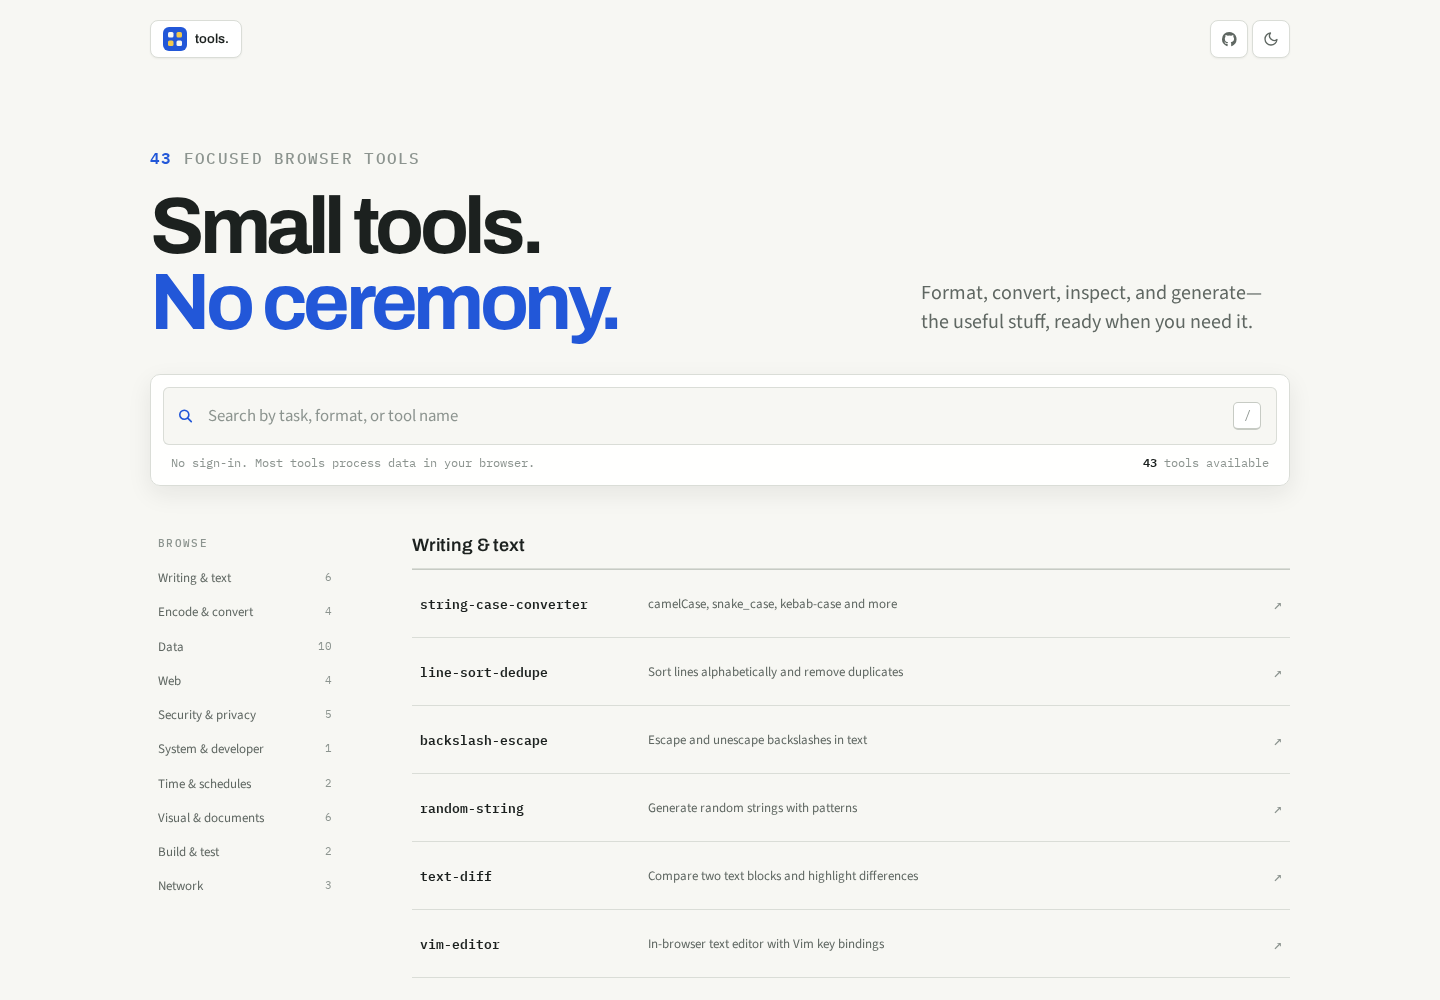
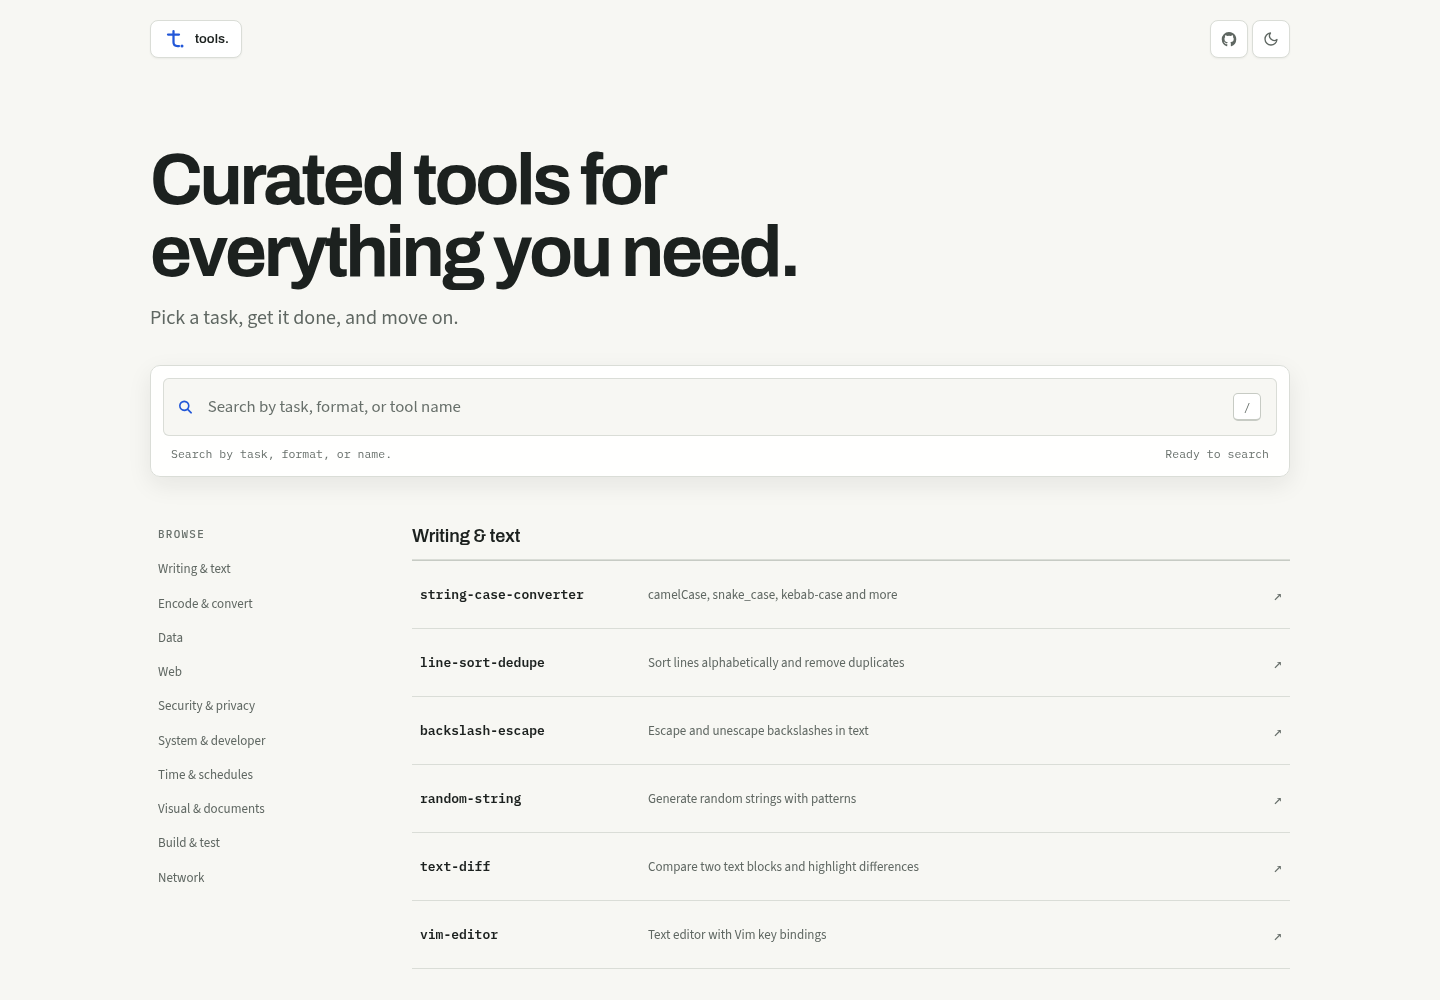
refactor: simplify homepage identity and copy

diff --git a/index.html b/index.html
@@ -3,14 +3,14 @@
 <head>
     <meta charset="UTF-8">
     <meta name="viewport" content="width=device-width, initial-scale=1.0">
-    <meta name="description" content="Useful browser tools for text, data, documents, security, design, and everyday digital work.">
+    <meta name="description" content="Curated tools for text, data, documents, design, security, and everyday work.">
     <meta name="theme-color" content="#2257d8">
     <link rel="canonical" href="https://tools.irfansp.dev/">
-    <meta property="og:title" content="tools. — useful browser utilities">
-    <meta property="og:description" content="A growing drawer of fast, privacy-friendly tools for everyday digital work.">
+    <meta property="og:title" content="tools. — curated tools for everyday work">
+    <meta property="og:description" content="Curated tools for everything you need.">
     <meta property="og:url" content="https://tools.irfansp.dev/">
     <meta property="og:type" content="website">
-    <title>tools. — useful browser utilities</title>
+    <title>tools. — curated tools for everyday work</title>
     <link rel="stylesheet" href="css/styles.css">
     <link rel="stylesheet" href="css/theme.css">
     <link rel="stylesheet" href="css/layout.css">
@@ -35,7 +35,7 @@
             <a class="icon-btn" href="https://github.com/irfansofyana/tools" target="_blank" rel="noopener" aria-label="GitHub repository">
                 <i class="fab fa-github" aria-hidden="true"></i>
             </a>
-            <button class="theme-toggle-btn" id="theme-toggle-btn" aria-label="Toggle dark and light theme" aria-pressed="false">
+            <button type="button" class="theme-toggle-btn" id="theme-toggle-btn" aria-label="Toggle dark and light theme" aria-pressed="false">
                 <svg class="icon-sun" viewBox="0 0 24 24" fill="none" stroke="currentColor" stroke-width="2" stroke-linecap="round" stroke-linejoin="round" aria-hidden="true"><circle cx="12" cy="12" r="4"/><path d="M12 2v2M12 20v2M4.93 4.93l1.41 1.41M17.66 17.66l1.41 1.41M2 12h2M20 12h2M4.93 19.07l1.41-1.41M17.66 6.34l1.41-1.41"/></svg>
                 <svg class="icon-moon" viewBox="0 0 24 24" fill="none" stroke="currentColor" stroke-width="2" stroke-linecap="round" stroke-linejoin="round" aria-hidden="true"><path d="M21 12.79A9 9 0 1 1 11.21 3 7 7 0 0 0 21 12.79z"/></svg>
             </button>
@@ -44,9 +44,8 @@
 
     <main class="page" id="tools">
         <section class="intro">
-            <p class="intro__eyebrow"><strong id="tool-count">43</strong> focused browser tools</p>
-            <h1>Small tools.<br><em>No ceremony.</em></h1>
-            <p class="intro__lede">Format, convert, inspect, and generate—the useful stuff, ready when you need it.</p>
+            <h1>Curated tools for everything you need.</h1>
+            <p class="intro__lede">Pick a task, get it done, and move on.</p>
         </section>
 
         <div class="search-shell">
@@ -59,24 +58,24 @@
                 <kbd class="search__shortcut" aria-hidden="true">/</kbd>
             </div>
             <div class="search-shell__meta">
-                <p id="search-hint">No sign-in. Most tools process data in your browser.</p>
-                <p id="search-status" aria-live="polite"><strong>43</strong> tools available</p>
+                <p id="search-hint">Search by task, format, or name.</p>
+                <p id="search-status" aria-live="polite">Ready to search</p>
             </div>
         </div>
 
         <div class="catalog-layout">
             <nav class="category-nav" aria-label="Tool categories">
                 <p class="category-nav__label">Browse</p>
-                <a href="#category-writing-text" class="category-nav__link"><span>Writing &amp; text</span><span>6</span></a>
-                <a href="#category-encode-convert" class="category-nav__link"><span>Encode &amp; convert</span><span>4</span></a>
-                <a href="#category-data" class="category-nav__link"><span>Data</span><span>10</span></a>
-                <a href="#category-web" class="category-nav__link"><span>Web</span><span>4</span></a>
-                <a href="#category-security-privacy" class="category-nav__link"><span>Security &amp; privacy</span><span>5</span></a>
-                <a href="#category-system-developer" class="category-nav__link"><span>System &amp; developer</span><span>1</span></a>
-                <a href="#category-time-schedules" class="category-nav__link"><span>Time &amp; schedules</span><span>2</span></a>
-                <a href="#category-visual-documents" class="category-nav__link"><span>Visual &amp; documents</span><span>6</span></a>
-                <a href="#category-build-test" class="category-nav__link"><span>Build &amp; test</span><span>2</span></a>
-                <a href="#category-network" class="category-nav__link"><span>Network</span><span>3</span></a>
+                <a href="#category-writing-text" class="category-nav__link"><span>Writing &amp; text</span></a>
+                <a href="#category-encode-convert" class="category-nav__link"><span>Encode &amp; convert</span></a>
+                <a href="#category-data" class="category-nav__link"><span>Data</span></a>
+                <a href="#category-web" class="category-nav__link"><span>Web</span></a>
+                <a href="#category-security-privacy" class="category-nav__link"><span>Security &amp; privacy</span></a>
+                <a href="#category-system-developer" class="category-nav__link"><span>System &amp; developer</span></a>
+                <a href="#category-time-schedules" class="category-nav__link"><span>Time &amp; schedules</span></a>
+                <a href="#category-visual-documents" class="category-nav__link"><span>Visual &amp; documents</span></a>
+                <a href="#category-build-test" class="category-nav__link"><span>Build &amp; test</span></a>
+                <a href="#category-network" class="category-nav__link"><span>Network</span></a>
             </nav>
             <div class="catalog" id="tool-catalog">
 
@@ -88,7 +87,7 @@
                 <li class="tool"><a href="tools/backslash-escape-unescape.html" class="tool__link"><span class="tool__name">backslash-escape</span><span class="tool__desc">Escape and unescape backslashes in text</span></a></li>
                 <li class="tool"><a href="tools/string-generator.html" class="tool__link"><span class="tool__name">random-string</span><span class="tool__desc">Generate random strings with patterns</span></a></li>
                 <li class="tool"><a href="tools/text-diff.html" class="tool__link"><span class="tool__name">text-diff</span><span class="tool__desc">Compare two text blocks and highlight differences</span></a></li>
-                <li class="tool"><a href="tools/vim-editor.html" class="tool__link"><span class="tool__name">vim-editor</span><span class="tool__desc">In-browser text editor with Vim key bindings</span></a></li>
+                <li class="tool"><a href="tools/vim-editor.html" class="tool__link"><span class="tool__name">vim-editor</span><span class="tool__desc">Text editor with Vim key bindings</span></a></li>
             </ul>
         </section>
 

diff --git a/css/workbench.css b/css/workbench.css
@@ -1092,10 +1092,8 @@ body:not(.tool-page-shell) .app-footer { max-width: 1180px; }
 body:not(.tool-page-shell) .page { padding-top: clamp(2.5rem, 6vw, 5.5rem); }
 
 body:not(.tool-page-shell) .intro {
-    display: grid;
-    grid-template-columns: minmax(0, 1.5fr) minmax(18rem, 0.75fr);
-    align-items: end;
-    gap: var(--space-7);
+    display: block;
+    max-width: 54rem;
     margin: 0 0 var(--space-7);
     padding: 0;
     border: 0;
@@ -1109,14 +1107,14 @@ body:not(.tool-page-shell) .intro__eyebrow {
 body:not(.tool-page-shell) .intro__eyebrow strong { color: var(--accent); }
 body:not(.tool-page-shell) .intro h1 {
     margin: 0;
-    max-width: 12ch;
-    font-size: clamp(3rem, 6vw, 5rem);
-    line-height: 0.96;
-    letter-spacing: -0.055em;
+    max-width: 18ch;
+    font-size: clamp(2.75rem, 5vw, 4.5rem);
+    line-height: 1;
+    letter-spacing: -0.045em;
 }
 body:not(.tool-page-shell) .intro h1 em::after { display: none; }
 body:not(.tool-page-shell) .intro .intro__lede {
-    margin: 0 0 0.35rem;
+    margin: var(--space-4) 0 0;
     max-width: 35ch;
     color: var(--text-secondary);
     font-size: clamp(1.05rem, 2vw, 1.25rem);
@@ -1199,7 +1197,6 @@ body:not(.tool-page-shell) .intro .intro__lede {
     font-size: var(--text-sm);
     line-height: 1.25;
 }
-.category-nav__link span:last-child { color: var(--text-muted); font-family: var(--font-mono); font-size: 0.7rem; }
 .category-nav__link:hover,
 .category-nav__link:focus-visible { background: var(--bg-secondary); color: var(--text); text-decoration: none; }
 .catalog { min-width: 0; }
@@ -1473,8 +1470,7 @@ body[data-workbench="tool"] .tool-content > .text-center {
         mask-image: linear-gradient(to right, #000 calc(100% - 2rem), transparent);
     }
     .category-nav::-webkit-scrollbar { display: none; }
-    .category-nav__label,
-    .category-nav__link span:last-child { display: none; }
+    .category-nav__label { display: none; }
     .category-nav__link {
         flex: 0 0 auto;
         display: block;

diff --git a/js/search.js b/js/search.js
@@ -70,10 +70,9 @@ document.addEventListener('DOMContentLoaded', () => {
         tools.forEach(tool => tool.querySelector('.tool__link')?.classList.remove('is-active'));
 
         if (searchStatus) {
-            const noun = totalVisible === 1 ? 'tool' : 'tools';
-            searchStatus.innerHTML = query
-                ? `<strong>${totalVisible}</strong> matching ${noun}`
-                : `<strong>${totalVisible}</strong> ${noun} available`;
+            searchStatus.textContent = query
+                ? (totalVisible > 0 ? 'Matching tools shown' : 'No matching tools')
+                : 'Ready to search';
         }
     }
 
@@ -138,7 +137,4 @@ document.addEventListener('DOMContentLoaded', () => {
             }
         }
     });
-
-    const countEl = document.getElementById('tool-count');
-    if (countEl) countEl.textContent = String(tools.length);
 });
